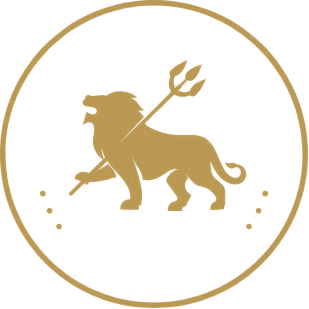
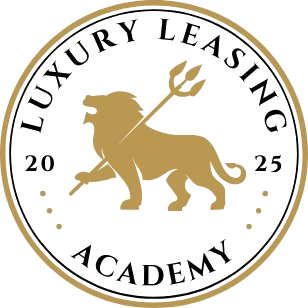
updated Home Page

diff --git a/templates_css_home.css b/templates_css_home.css
@@ -1,4 +1,8 @@
 
+:root{color-scheme:light only}
+html{background:var(--ivory)}
+body{background:var(--ivory)!important;color:var(--espresso)!important}
+
 :root{
   --ivory:#FAF6EE;
   --cream:#F2EADB;
@@ -25,7 +29,7 @@ a{text-decoration:none;color:inherit}
 nav{position:sticky;top:0;z-index:50;background:rgba(250,246,238,.92);backdrop-filter:blur(10px);border-bottom:1px solid rgba(185,137,47,.18)}
 .nav-inner{display:flex;align-items:center;justify-content:space-between;padding:14px 28px;max-width:1240px;margin:0 auto}
 .nav-logo{display:flex;align-items:center;gap:11px}
-.nav-logo img{height:46px;width:auto}
+.nav-logo img{height:56px;width:auto}
 .nav-wordmark{font-family:'Fraunces',serif;font-weight:600;font-size:19px;color:var(--espresso);letter-spacing:.01em;line-height:1.1}
 @media (max-width:380px){.nav-wordmark{font-size:16px}}
 .nav-links{display:flex;gap:30px;align-items:center;font-weight:500;font-size:15px}
@@ -157,13 +161,14 @@ footer{background:#211911;color:#B5A893;padding:64px 0 40px;font-size:14.5px}
 .mobile-menu .btn{margin-top:16px;text-align:center;border-bottom:none}
 
 @media (max-width:900px){
-  .hero-grid,.matty-grid,.band-grid{grid-template-columns:1fr;gap:44px}
+  .hero-grid,.matty-grid,.band-grid,.home-hero-grid,.home-band-grid{grid-template-columns:1fr;gap:44px}
   .cards3,.steps{grid-template-columns:1fr}
   .foot-grid{grid-template-columns:1fr 1fr}
   .nav-links{display:none}
   .nav-burger{display:flex}
   .arch img{height:420px}
   .band .big{font-size:96px}
+  .stats{flex-direction:column;gap:24px;align-items:flex-start}
 }
 @media (max-width:600px){
   body{font-size:16px}
@@ -175,7 +180,7 @@ footer{background:#211911;color:#B5A893;padding:64px 0 40px;font-size:14.5px}
   .hero p{font-size:17px}
   .hero-ctas{flex-direction:column}
   .hero-ctas .btn{text-align:center;width:100%}
-  .stats{gap:24px;justify-content:space-between}
+  .stats{flex-direction:column;gap:28px;align-items:flex-start}
   .stat .num{font-size:32px}
   .stat .lbl{font-size:11px}
   .arch{border-radius:200px 200px 18px 18px}
@@ -194,4 +199,31 @@ footer{background:#211911;color:#B5A893;padding:64px 0 40px;font-size:14.5px}
   .optin .btn{width:100%}
   .optin-close{position:absolute;top:6px;right:10px}
   .optin{padding:16px 0 18px}
+}
+
+.foot-brand{text-align:center;padding-bottom:44px;margin-bottom:44px;border-bottom:1px solid rgba(185,137,47,.2)}
+.foot-logo-big img{height:96px;width:auto;margin:0 auto 18px}
+.foot-tag-center{font-family:'Fraunces',serif;font-style:italic;color:var(--ivory);font-size:22px;line-height:1.4;max-width:520px;margin:0 auto 10px}
+.foot-hash{color:var(--gold-bright);font-weight:600;font-size:14px;letter-spacing:.04em}
+.foot-grid-3{grid-template-columns:1fr 1fr 1fr;max-width:720px;margin:0 auto 44px;text-align:center}
+@media (max-width:600px){.foot-logo-big img{height:76px}.foot-tag-center{font-size:19px}.foot-grid-3{grid-template-columns:1fr;gap:28px}}
+
+.foot-brandname{font-family:'Fraunces',serif;font-weight:600;font-size:21px;color:var(--ivory);margin-bottom:14px;letter-spacing:.02em}
+@media (max-width:600px){.foot-brandname{font-size:18px}}
+
+.home-hero-grid{display:grid;grid-template-columns:1.15fr .85fr;gap:64px;align-items:center}
+.home-band-grid{display:grid;grid-template-columns:auto 1fr;gap:64px;align-items:center;position:relative}
+.home-band-big{font-family:'Fraunces',serif;font-size:clamp(90px,12vw,160px);color:var(--gold-bright);line-height:.95;font-weight:600}
+.step-card{padding:0;overflow:hidden}
+.step-card-img{height:200px;background:var(--cream);display:flex;align-items:center;justify-content:center;padding:24px}
+.step-card-img img{max-height:100%;width:auto}
+.step-card-body{padding:28px 30px 32px}
+.step-no-label{font-family:'Fraunces',serif;color:var(--gold);font-size:15px;letter-spacing:.18em;font-weight:600;margin-bottom:10px}
+@media (max-width:900px){
+  .home-hero-grid{grid-template-columns:1fr;gap:40px}
+  .home-band-grid{grid-template-columns:1fr;gap:28px}
+}
+@media (max-width:600px){
+  .home-hero-grid{gap:32px}
+  .home-band-big{font-size:84px}
 }

diff --git a/templates_css_shared.css b/templates_css_shared.css
@@ -1,4 +1,8 @@
 
+:root{color-scheme:light only}
+html{background:var(--ivory)}
+body{background:var(--ivory)!important;color:var(--espresso)!important}
+
 :root{--ivory:#FAF6EE;--cream:#F2EADB;--espresso:#2A2018;--espresso-soft:#4A3D30;--gold:#B9892F;--gold-bright:#D4A94E;--amber:#C96F23;--haze:#8C7C68;--white:#FFFDF9}
 *{margin:0;padding:0;box-sizing:border-box}
 html{scroll-behavior:smooth}
@@ -11,7 +15,7 @@ a{text-decoration:none;color:inherit}
 nav{position:sticky;top:0;z-index:50;background:rgba(250,246,238,.92);backdrop-filter:blur(10px);border-bottom:1px solid rgba(185,137,47,.18)}
 .nav-inner{display:flex;align-items:center;justify-content:space-between;padding:14px 28px;max-width:1240px;margin:0 auto}
 .nav-logo{display:flex;align-items:center;gap:11px}
-.nav-logo img{height:46px;width:auto}
+.nav-logo img{height:56px;width:auto}
 .nav-wordmark{font-family:'Fraunces',serif;font-weight:600;font-size:19px;color:var(--espresso);line-height:1.1}
 .nav-links{display:flex;gap:30px;align-items:center;font-weight:500;font-size:15px}
 .nav-links a{color:var(--espresso-soft);transition:color .2s}
@@ -177,4 +181,31 @@ footer{background:#211911;color:#B5A893;padding:64px 0 40px;font-size:14.5px}
   .foot-bottom{flex-direction:column;gap:6px}
   .club-banner{padding:22px 22px}
   .ccard-img img{height:180px}
+}
+
+.foot-brand{text-align:center;padding-bottom:44px;margin-bottom:44px;border-bottom:1px solid rgba(185,137,47,.2)}
+.foot-logo-big img{height:96px;width:auto;margin:0 auto 18px}
+.foot-tag-center{font-family:'Fraunces',serif;font-style:italic;color:var(--ivory);font-size:22px;line-height:1.4;max-width:520px;margin:0 auto 10px}
+.foot-hash{color:var(--gold-bright);font-weight:600;font-size:14px;letter-spacing:.04em}
+.foot-grid-3{grid-template-columns:1fr 1fr 1fr;max-width:720px;margin:0 auto 44px;text-align:center}
+@media (max-width:600px){.foot-logo-big img{height:76px}.foot-tag-center{font-size:19px}.foot-grid-3{grid-template-columns:1fr;gap:28px}}
+
+.foot-brandname{font-family:'Fraunces',serif;font-weight:600;font-size:21px;color:var(--ivory);margin-bottom:14px;letter-spacing:.02em}
+@media (max-width:600px){.foot-brandname{font-size:18px}}
+
+.home-hero-grid{display:grid;grid-template-columns:1.15fr .85fr;gap:64px;align-items:center}
+.home-band-grid{display:grid;grid-template-columns:auto 1fr;gap:64px;align-items:center;position:relative}
+.home-band-big{font-family:'Fraunces',serif;font-size:clamp(90px,12vw,160px);color:var(--gold-bright);line-height:.95;font-weight:600}
+.step-card{padding:0;overflow:hidden}
+.step-card-img{height:200px;background:var(--cream);display:flex;align-items:center;justify-content:center;padding:24px}
+.step-card-img img{max-height:100%;width:auto}
+.step-card-body{padding:28px 30px 32px}
+.step-no-label{font-family:'Fraunces',serif;color:var(--gold);font-size:15px;letter-spacing:.18em;font-weight:600;margin-bottom:10px}
+@media (max-width:900px){
+  .home-hero-grid{grid-template-columns:1fr;gap:40px}
+  .home-band-grid{grid-template-columns:1fr;gap:28px}
+}
+@media (max-width:600px){
+  .home-hero-grid{gap:32px}
+  .home-band-big{font-size:84px}
 }

diff --git a/build.js b/build.js
@@ -15,7 +15,7 @@ function nav() {
   const mob = L.map(([h, t]) => `<a href="${h}">${t}</a>`).join('');
   return `<nav>
   <div class="nav-inner">
-    <a class="nav-logo" href="index.html"><img src="${C.images.crest}" alt="${C.brand.name} crest"><span class="nav-wordmark">${C.brand.name}</span></a>
+    <a class="nav-logo" href="index.html"><img src="${C.images.crest}" alt="${C.brand.name}"></a>
     <button class="nav-burger" id="burger" aria-label="Open menu" aria-expanded="false"><span></span><span></span><span></span></button>
     <div class="nav-links">${desk}<a href="${C.brand.portalUrl}" class="nav-login">${C.nav.login}</a><a href="club.html" class="btn btn-gold">${C.nav.joinButton}</a></div>
   </div>
@@ -25,12 +25,12 @@ function nav() {
 
 const FOOTER = `<footer>
   <div class="wrap">
-    <div class="foot-grid">
-      <div>
-        <div class="foot-logo"><img src="${C.images.footerLogo}" alt="${C.brand.name}"></div>
-        <div class="foot-tag">${C.brand.tagline}</div>
-        <div style="color:var(--gold-bright);font-weight:600;font-size:13px">${C.brand.hashtag}</div>
-      </div>
+    <div class="foot-brand">
+      <div class="foot-logo-big"><img src="${C.images.footerLogo}" alt="${C.brand.name}"></div>
+      <div class="foot-tag-center">${C.brand.tagline}</div>
+      <div class="foot-hash">${C.brand.hashtag}</div>
+    </div>
+    <div class="foot-grid foot-grid-3">
       <div><h4>Learn</h4><a href="courses.html">${C.nav.courses}</a><a href="club.html">${C.nav.club}</a><a href="ebook.html">${C.nav.ebook}</a><a href="thanks.html">The Playbook</a></div>
       <div><h4>About</h4><a href="meet-matty.html">${C.nav.matty}</a><a href="ebook.html">The Lease Up</a><a href="mailto:${C.brand.contactEmail}">Contact</a></div>
       <div><h4>Students</h4><a href="${C.brand.portalUrl}">${C.nav.login}</a><a href="#">Terms</a><a href="#">Privacy</a></div>
@@ -55,6 +55,8 @@ function page(title, body, css) {
 <head>
 <meta charset="UTF-8">
 <meta name="viewport" content="width=device-width, initial-scale=1.0">
+<meta name="color-scheme" content="light only">
+<meta name="supported-color-schemes" content="light">
 <title>${title}</title>
 ${FONTS}
 <style>${css || CSS_SHARED}</style>
@@ -81,7 +83,7 @@ function buildHome() {
   const h = C.home;
   const testis = C.testimonials.map(t => `<div class="card rv"><div class="stars">&#9733;&#9733;&#9733;&#9733;&#9733;</div><p>"${t.quote}"</p><div class="who-sig" style="margin-top:20px;font-weight:700;font-size:14.5px">${t.name} <span style="display:block;font-weight:500;color:var(--haze);font-size:13px;margin-top:2px">${t.location}</span></div></div>`).join('');
   const body = `<header class="hero" style="padding:88px 0 70px;position:relative;overflow:hidden">
-  <div class="wrap" style="display:grid;grid-template-columns:1.15fr .85fr;gap:64px;align-items:center" id="herogrid">
+  <div class="wrap home-hero-grid" id="herogrid">
     <div class="rv in">
       <div class="eyebrow">${h.eyebrow}</div>
       <h1 style="font-size:clamp(40px,5.2vw,64px);margin-bottom:24px">${highlight(h.heroHeadline, h.heroHighlight)}</h1>
@@ -104,8 +106,8 @@ function buildHome() {
 <hr class="horizon">
 <section class="band">
   <div class="glow"></div>
-  <div class="wrap" style="display:grid;grid-template-columns:auto 1fr;gap:64px;align-items:center;position:relative">
-    <div class="rv" style="font-family:'Fraunces',serif;font-size:clamp(90px,12vw,160px);color:var(--gold-bright);line-height:.95;font-weight:600">${h.problemBig}</div>
+  <div class="wrap home-band-grid">
+    <div class="rv home-band-big">${h.problemBig}</div>
     <div class="rv">
       <h2>${h.problemHeadline}</h2>
       <p>${h.problemBody}</p>
@@ -127,9 +129,9 @@ function buildHome() {
   <div class="wrap">
     <div class="section-head rv"><div class="eyebrow">The Path</div><h2>Your path to $100K+ with luxury rentals</h2></div>
     <div class="cards3">
-      <div class="card rv" style="padding:0;overflow:hidden"><div style="height:200px;background:var(--cream);display:flex;align-items:center;justify-content:center;padding:24px"><img src="${C.images.ebookCover}" alt="E-book" style="max-height:100%"></div><div style="padding:28px 30px 32px"><div style="font-family:'Fraunces',serif;color:var(--gold);font-size:15px;letter-spacing:.18em;font-weight:600;margin-bottom:10px">STEP 01</div><h3 style="font-size:23px;margin-bottom:10px">Start free</h3><p style="color:var(--espresso-soft);font-size:15.5px;margin-bottom:18px">Download the e-book and learn the 9 secrets top earners use to build six-figure rental businesses.</p><a href="ebook.html" style="color:var(--gold);font-weight:600;font-size:15px">Get the Free E-Book &rarr;</a></div></div>
-      <div class="card rv" style="padding:0;overflow:hidden"><div style="height:200px;background:var(--cream);display:flex;align-items:center;justify-content:center;padding:24px"><img src="img/c1-mockup.png" alt="Courses" style="max-height:100%"></div><div style="padding:28px 30px 32px"><div style="font-family:'Fraunces',serif;color:var(--gold);font-size:15px;letter-spacing:.18em;font-weight:600;margin-bottom:10px">STEP 02</div><h3 style="font-size:23px;margin-bottom:10px">Learn the system</h3><p style="color:var(--espresso-soft);font-size:15.5px;margin-bottom:18px">Nine courses covering everything from your first lease to scaling a rental empire. In order, step by step.</p><a href="courses.html" style="color:var(--gold);font-weight:600;font-size:15px">Browse the Courses &rarr;</a></div></div>
-      <div class="card rv" style="padding:0;overflow:hidden"><div style="height:200px;background:var(--cream);display:flex;align-items:center;justify-content:center;padding:24px"><img src="https://i0.wp.com/luxuryleasingacademy.com/wp-content/uploads/brizy/imgs/Club-Website-Image-270x270x0x0x270x270x1752690028.png?w=1400&ssl=1" alt="Club" style="max-height:100%"></div><div style="padding:28px 30px 32px"><div style="font-family:'Fraunces',serif;color:var(--gold);font-size:15px;letter-spacing:.18em;font-weight:600;margin-bottom:10px">STEP 03</div><h3 style="font-size:23px;margin-bottom:10px">Go all in</h3><p style="color:var(--espresso-soft);font-size:15.5px;margin-bottom:18px">The Elite Leasing Club: every course, weekly live coaching, and a community of agents actually closing deals.</p><a href="club.html" style="color:var(--gold);font-weight:600;font-size:15px">Join the Club &rarr;</a></div></div>
+      <div class="card rv step-card"><div class="step-card-img"><img src="${C.images.ebookCover}" alt="E-book" style="max-height:100%"></div><div class="step-card-body"><div class="step-no-label">STEP 01</div><h3 style="font-size:23px;margin-bottom:10px">Start free</h3><p style="color:var(--espresso-soft);font-size:15.5px;margin-bottom:18px">Download the e-book and learn the 9 secrets top earners use to build six-figure rental businesses.</p><a href="ebook.html" style="color:var(--gold);font-weight:600;font-size:15px">Get the Free E-Book &rarr;</a></div></div>
+      <div class="card rv step-card"><div class="step-card-img"><img src="img/c1-mockup.png" alt="Courses" style="max-height:100%"></div><div class="step-card-body"><div class="step-no-label">STEP 02</div><h3 style="font-size:23px;margin-bottom:10px">Learn the system</h3><p style="color:var(--espresso-soft);font-size:15.5px;margin-bottom:18px">Nine courses covering everything from your first lease to scaling a rental empire. In order, step by step.</p><a href="courses.html" style="color:var(--gold);font-weight:600;font-size:15px">Browse the Courses &rarr;</a></div></div>
+      <div class="card rv step-card"><div class="step-card-img"><img src="https://i0.wp.com/luxuryleasingacademy.com/wp-content/uploads/brizy/imgs/Club-Website-Image-270x270x0x0x270x270x1752690028.png?w=1400&ssl=1" alt="Club" style="max-height:100%"></div><div class="step-card-body"><div class="step-no-label">STEP 03</div><h3 style="font-size:23px;margin-bottom:10px">Go all in</h3><p style="color:var(--espresso-soft);font-size:15.5px;margin-bottom:18px">The Elite Leasing Club: every course, weekly live coaching, and a community of agents actually closing deals.</p><a href="club.html" style="color:var(--gold);font-weight:600;font-size:15px">Join the Club &rarr;</a></div></div>
     </div>
   </div>
 </section>